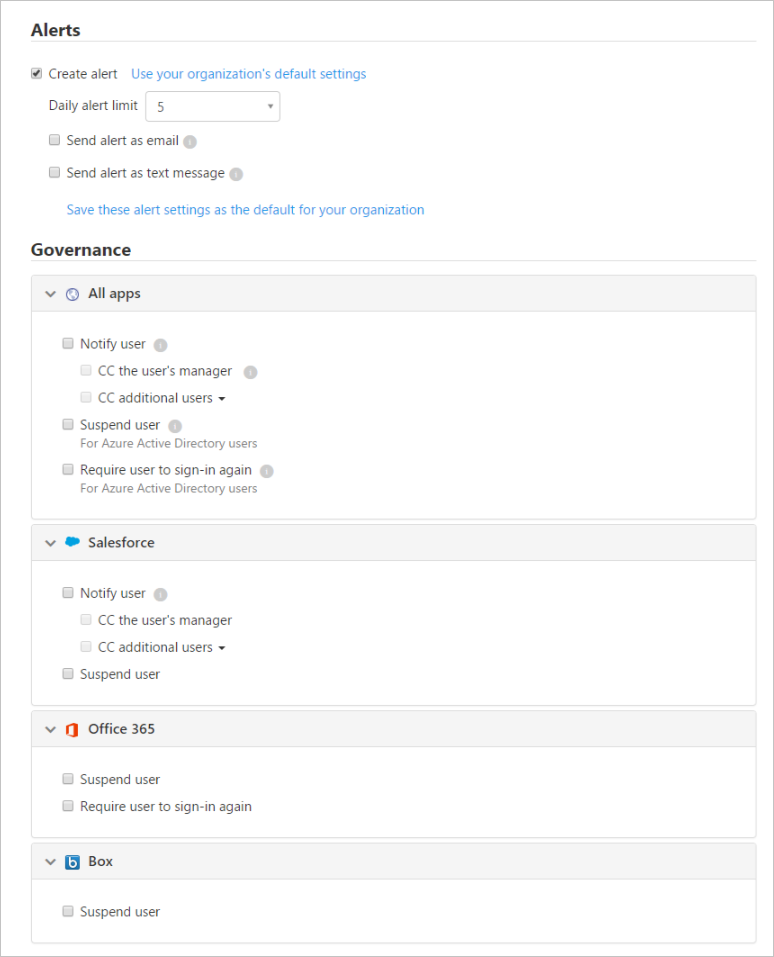
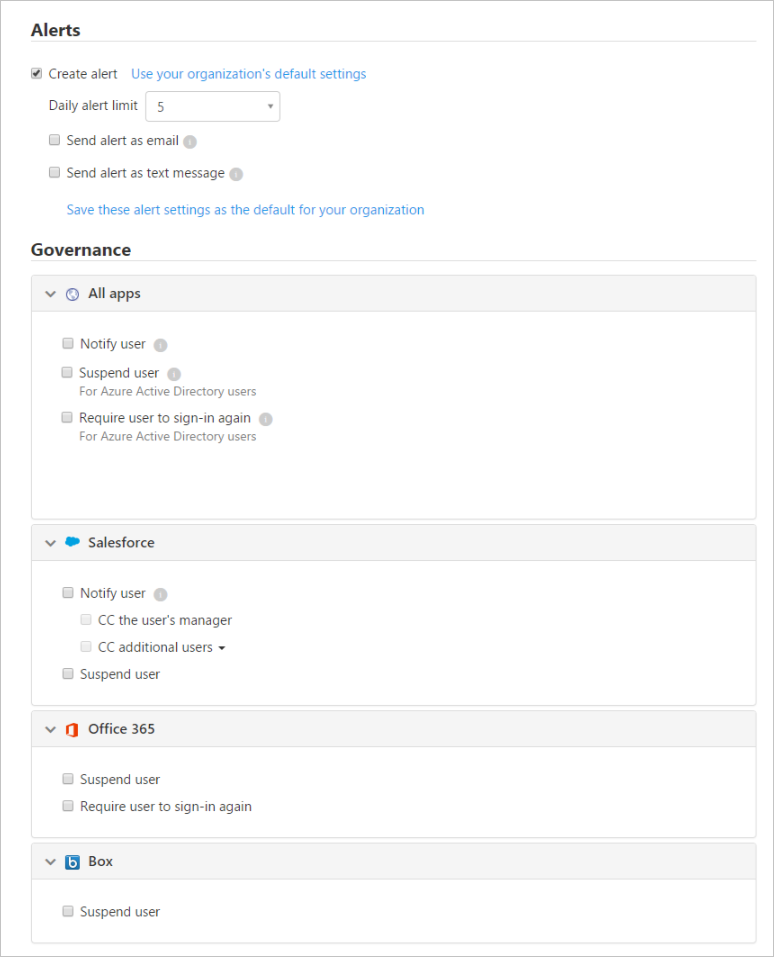
first draft of aip protection

Changed region(s): [[0.062, 0.3636, 0.3721, 0.5152]]

diff --git a/CloudAppSecurityDocs/use-case-aip.md b/CloudAppSecurityDocs/use-case-aip.md
@@ -1,0 +1,75 @@
+---
+# required metadata
+
+title: Protect your data with Cloud App Security and Azure Information Protection | Microsoft Docs
+description: This topic describes the process for setting up near real time data protection for sensitive data in your organization.
+keywords:
+author: rkarlin
+ms.author: rkarlin
+manager: mbaldwin
+ms.date: 8/22/2017
+ms.topic: article
+ms.prod:
+ms.service: cloud-app-security
+ms.technology:
+ms.assetid: f3d01d43-0018-40e5-b7c7-8384d37bad52
+
+# optional metadata
+
+#ROBOTS:
+#audience:
+#ms.devlang:
+ms.reviewer: reutam
+ms.suite: ems
+#ms.tgt_pltfrm:
+#ms.custom:
+
+---
+
+# Protecting your organization's data
+
+Properly training all your employees in information protection can be expensive and sometimes impossible. For companies that have a lot of vendors and partners with access to SharePoint sites and Dropbox locations, it's hard to make sure that your data is secure at all times. That's where Cloud App Security's integration with Azure Information Protection comes in. This better-together cloud app super team enables you to protect your data in near real-time. Not only can that be dangerous for the customers, it can be against PII regulations in many countries, causing potential legal issues for your organization.
+
+## THE THREAT
+A user in your organization saves confidential customer information files to Box. The user doesn't realize that in addition to their immediate team, the entire support staff has access to that Box account, including vendors, partners and visitors who occasionally stop into the office. Any person with access to your organization's Box account now has access to that information.
+
+## THE SOLUTION
+Protect your data in near real-time by setting a policy that automatically applies Azure Information Protection encryption to sensitive files.
+## Prerequisites
+
+[Connect Box](connect-box-to-microsoft-cloud-app-security.md) to Cloud App Security.
+
+## Setting up data protection
+
+1. Start protecting the data you store in Box by setting up a policy that will encrypt any sensitive data stored in Box:
+
+    1. On the **Control** tab, click [**Policies**](control-cloud-apps-with-policies.md). 
+   
+    2. Click **Create policy** and select **File policy**.
+    3. Call the policy Box data protection and under **Create a filter for the files this policy will act on**, target your proprietary and sensitive data.<br></br>
+    For example, select **Parent folder** equals **Customer data** and select **Owner** equals and select the finance team.
+    4. Under **Governance**, open the **Box** section and select **Protect**.
+    5. Because [Cloud App Security is integrated with Azure Information Protection](azip-integration.md), you can select from your existing list of classification labels to be used to protect the data.
+    4. Click **Create**. 
+   
+     
+2. Investigating your matches
+    
+    1. In the **Policies** page, click on the policy name to go to the **Policy report** and review the matches that were triggered for the policy.
+
+    2. You can investigate the match by clicking on a specific match to open the file drawer. In the drawer, you can see the other policies that this file matched. 
+     
+## Validating your policy
+
+1. To simulate an alert, go to your Box account and attempt to access a file in the folder **Customer data**.
+3. Go to the policy report. A file policy match should appear shortly. 
+4. You can click on the match to see which files were protected. The match itself will be masked to protect the sensitive data. 
+
+
+
+ ## See Also  
+[Daily activities to protect your cloud environment](daily-activities-to-protect-your-cloud-environment.md)   
+[For technical support, please visit the Cloud App Security assisted support page.](http://support.microsoft.com/oas/default.aspx?prid=16031)   
+[Premier customers can also choose Cloud App Security directly from the Premier Portal.](https://premier.microsoft.com/)  
+  
+  

diff --git a/CloudAppSecurityDocs/governance-actions.md b/CloudAppSecurityDocs/governance-actions.md
@@ -41,7 +41,7 @@ The following governance actions can be taken for connected apps either on a spe
   
     -   User email notification – Email messages can be customized and will be sent to all violating file owners.  
   
-    -   CC manager – Based on user directory integration, email notifications can also be sent to the manager of the person found to violate a policy.  
+    -   CC manager – Based on user directory integration, email notifications can also be sent to the manager of the person found to violate a policy. (Salesforce only)
   
 -   Notify specific users – Specific list of email addresses that will receive these notifications.  
   
@@ -81,7 +81,7 @@ The following governance actions can be taken for connected apps either on a spe
   
     -   User email notification – Email messages can be customized and will be sent to all violating file owners.  
   
-    -   CC manager – Based on user directory integration, email notifications can also be sent to the manager of the person found to violate a policy.  
+    -   CC manager – Based on user directory integration, email notifications can also be sent to the manager of the person found to violate a policy. (Salesforce only)
   
     -   Notify additional users – Specific list of email addresses that will receive these notifications.  
   
